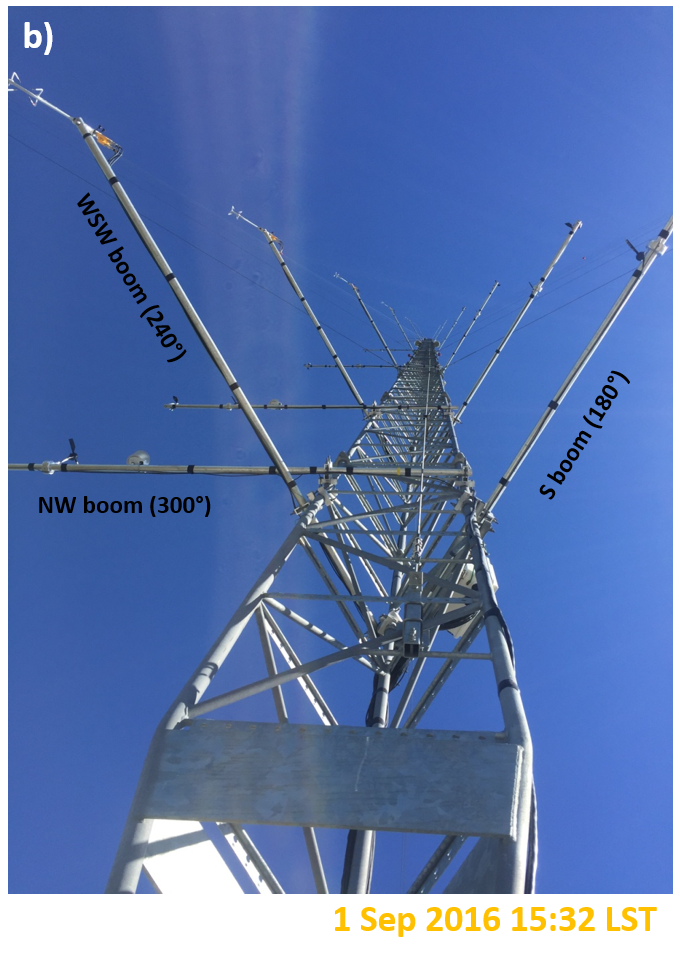
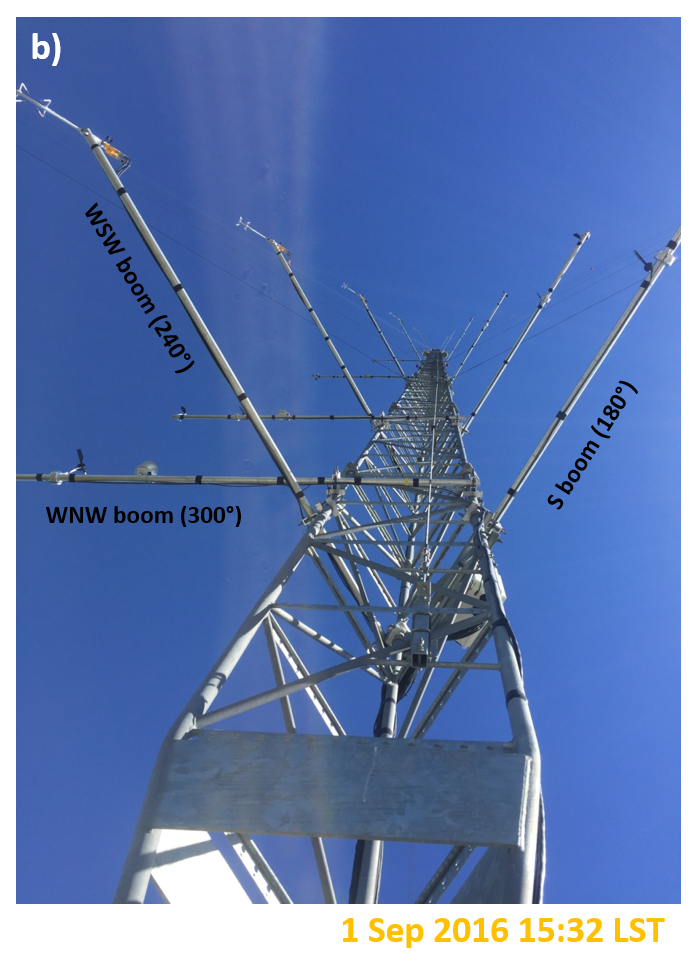
IAO suggested website mods

diff --git a/htdocs/projects/iao/index.php b/htdocs/projects/iao/index.php
@@ -30,7 +30,11 @@ Iowa EPSCoR grant (Grant # 1101284).  This distributed observing facility
 is anchored by its two tall (120-m) towers, separated by 22 km, operating 
 continuously since June 2016 in central Iowa.  Tower A1 is located within 
 a 200-turbine utility-scale wind farm, and Tower A2 is located in similar 
-terrain and landscape but outside the same wind farm.  Associated short-term 
+terrain and landscape but outside the same wind farm.  Collocated at tower A2 
+since May 1, 2018, is a sodar wind profiler unit. In addition to the sodar, 
+a surface meteorological station was also added to the A2 site on 
+November 29, 2018. Various guest/collaboration sensors have been 
+located at the sites as well. Associated short-term 
 field research and teaching activities and their associated field observing 
 facilities are deployed for specific short term intensive observing periods 
 (IOPs) or longer term studies.  Remote sensing instruments also have been 
@@ -93,7 +97,7 @@ and booms on the towers are shown in Figures 4a and 4b. Redundant wind
 speed and direction sensors at each level provide measurements with 
 minimal tower interference for flow from prevailing wind directions at 
 these sites, which are shown by the 10-m (Figure 5a) and 80-m (Figure 5b) 
-windroses from Tower A2.  Orientation of booms and sensor locations 
+wind roses from Tower A2.  Orientation of booms and sensor locations 
 along each boom are shown in Figure 5.   
 Site photos (Figure 6) show the climate-controlled concrete sheds 
 housing data acquisition and communication facilities at the base of 
@@ -187,9 +191,9 @@ a: < 0.058° at u=v=1 m s<sup>-1</sup></td>
 
 <p><strong>Table 1</strong> Instruments deployed at A1 and A2 with sensor
 operating range and measurement accuracy. <sup>a</sup> heated cup anemometer,
-<sup>b</sup> unheated cup anemometer, <sup>c</sup> NW boom, <sup>d</sup> S boom,
+<sup>b</sup> unheated cup anemometer, <sup>c</sup> WNW boom, <sup>d</sup> S boom,
 <sup>e</sup> WSW boom, <sup>f</sup> N leg of tower, <sup>§</sup> vertical distance
-from midpoint of sensor to boom is 0.41m, <sup>†</sup> sensor at A2 repalced previous
+from midpoint of sensor to boom is 0.41m, <sup>†</sup> sensor at A2 replaced previous
 sensor on 16 August 2016, <sup>‡</sup> sensor at A2 replaced previous sensor on
 16 February 2017, <sup>*</sup> rotor cup assembly at A2 replaced 23 May 2016.</p>
 
@@ -242,29 +246,28 @@ farm (b).  Images courtesy of S. Purdy.</p>
 <h3>Topography and Tower Mast Influences on IAO Measurements</h3>
 </section>
 
-<p>Terrain for both sites is flat with about 13-m higher elevation at A2 vs. 
-A1 (356.6 m vs. 343.8 m).  Both sites feature slopes radially away from of 
-tower of less than ±0.7% within a 4-km distance of each tower for each of 
-the following directions ([A1 vs A2] N: <0.1% vs. 0%; S: -0.3% vs. -0.2%; 
-E: <0.1% vs. <0.1%; W: <-0.1% vs. -0.2%).  Within 1 km of A1 the land slopes 
-gently upward (≤1.0%) to the west, north, northwest, southwest, and south 
-of the tower.  Surrounding A2 slopes within 1 km of the tower are ±0.1% to 
-the northwest, southwest, south, and west of the tower and -0.3% to the 
-north of the tower.  These topographical variations are significantly 
-lower than the requirements for site calibration of met towers near 
-wind turbines (e.g. <10% slope or height variations of ±4m from the 
-horizontal plane at a distance of 16 rotor diameters, D (D=82m) from a 
-turbine (IEC61400-12:1, 2005)).</p>
+<p>Terrain for both sites is flat with about 13m higher elevation at A2 vs. 
+A1 (356.6 m vs. 343.8 m). Within 1 km of A1 the land slopes gently upward 
+(≤1.0%) to the south, southwest, west, northwest, and north of the tower. 
+Surrounding A2 slopes within 1 km of the tower are ±0.1% to the south, 
+southwest, west, and northwest of the tower and -0.3% to the north of the 
+tower. Both sites feature slopes that vary radially away from the tower at 
+rates of less than ±0.7% within a 4-km distance of each tower for each of 
+the following directions [A1 vs A2] S: -0.3% vs. -0.2%; W: <-0.1% vs. -0.2%.; 
+N: <0.1% vs. 0%; E: <0.1% vs. <0.1%. These topographical variations are 
+significantly lower than the requirements for site calibration of met 
+towers near wind turbines (e.g. <10% slope or height variations of ±4m 
+from the horizontal plane at a distance of 16 rotor diameters, D (D=82m) 
+from a turbine (IEC61400-12:1, 2005)).</p>
 
-<p>Influence of tower cross section of our measurements is shown in Figure 7 
-by taking the ratio of median wind speeds from the NW and S IAO Tower 
+<p>Influence of tower cross section on our measurements is shown in Figure 7 
+by taking the ratio of median wind speeds from the WNW and S IAO Tower 
 booms for 80-m wind direction from the A2 reference tower.  From wind 
 directions approximately S (172.5°) to approximately NW (326.5°) we 
 expect less than 5% variation in anemometer speeds due to the tower 
-influence.  For easterly and northerly wind, the NW and S anemometer 
+influence.  For easterly and northerly wind, the WNW and S anemometer 
 speeds depart by 30-40% depending on the leeward or windward position of
-each anemometer.  We thereby omit analysis of tower data from these 
-directional sectors (0°-172.5° and 326.5°-359.9°).  Higher variability 
+each anemometer.  Higher variability 
 of the normalized speed is indicated at the 10-m and 120-m levels due to 
 cup anemometer malfunction on the south boom before instrument repair in 
 August 2016.  We also observe a slight reduction in the tower wake at 5-m 
@@ -275,12 +278,42 @@ dominant influence on the waked region.</p>
 <p><img src="figures/figure7.png" class="img img-responsive">
 <br /><strong>Figure 7:</strong> Detection of tower wake at all tower levels
 from normalized wind
-speed ratios from the NW and S booms. Median ratios are represented with
+speed ratios from the WNW and S booms. Median ratios are represented with
 median absolute deviations as error bars and error bars are plotted every
-15°.  A2 80-m wind direction is taken from the wind vane on the NW
+15°.  A2 80-m wind direction is taken from the wind vane on the WNW
 boom.   Tower
 boom layout diagram denotes usable wind directions from No Wake sector. 
 Image courtesy of: D. Rajewski</p>
+
+<section id="remote">
+<h3>Remote sensors and surface met station</h3>
+</section>
+
+<p>Measurements from wind profiling systems complement understanding of 
+low-level stability and turbulence measurements from the tall towers. 
+A sodar was installed 140 m northeast of A2 May 1, 2018 (Figures 8a and 8b). 
+A lidar was also positioned near the base of the A2 tower in May 2018. 
+Horizontal and vertical wind speed, wind direction, turbulence intensity, 
+and data quality are monitored at ten heights from 40 m to 200 m every ten 
+minutes from both the lidar and sodar.</p>
+
+<p>A hyperspectral and infrared camera were installed on the A2 tower at 80 m 
+during the 2018 growing season to monitor field-scale variations in 
+crop water use and plant photosynthetic activity. A surface met station 
+(Figure 9) was installed 10 m southwest of the A2 tower base in September 
+2018 and consists of a tripod mast with sensors for 2 m air temperature and 
+relative humidity, 2 m wind speed and wind direction, 2 m pressure, 
+incoming solar radiation, and precipitation.</p>
+
+<p><img src="figures/figure8.png" class="img img-responsive">
+<br /><strong>Figure 8:</strong> Sodar wind profiler in the vicinity of the A2 
+tower during the 2018 growing season (a) and after harvest (b). 
+Images courtesy of S. Purdy.</p>
+
+<p><img src="figures/figure9.png" class="img img-responsive">
+<br /><strong>Figure 9:</strong> Surface meteorology station near the A2 
+tower base after the 2018 growing season. Image courtesy of S. Purdy.</p>
+
 
 <section id="data">
 <h3>Tower Data</h3>
@@ -446,6 +479,7 @@ Boulder CO. [<a href="/pickup/iao/nrel_wake_tools.pdf">Available PDF</a>]</p>
  <li><a href="#locations">Tower Locations</a></li>
  <li><a href="#instruments">Instruments</a></li>
  <li><a href="#topography">Topography</a></li>
+ <li><a href="#remote">Remote Sensors</a></li>
  <li><a href="#data">Tower Data</a></li>
  <li><a href="#cwex">CWEX</a></li>
  <li><a href="#contact">Contacts</a></li>
